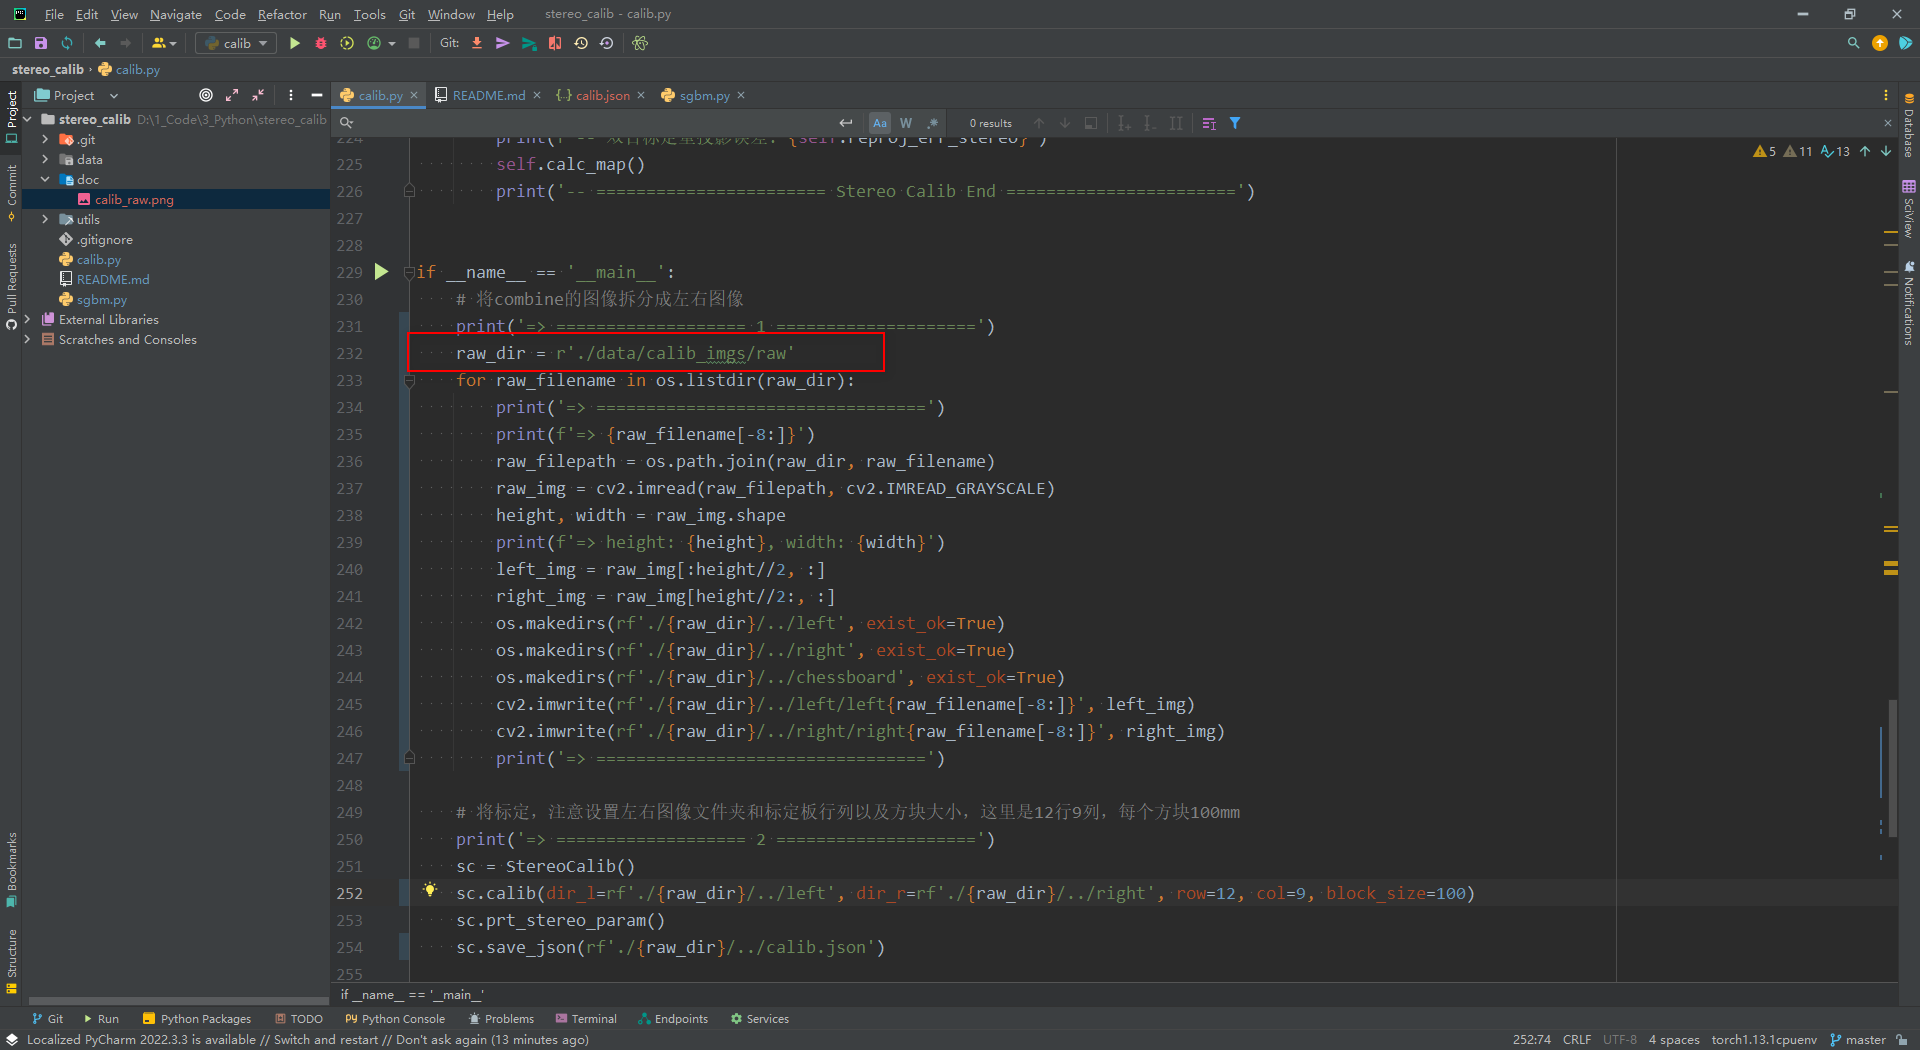
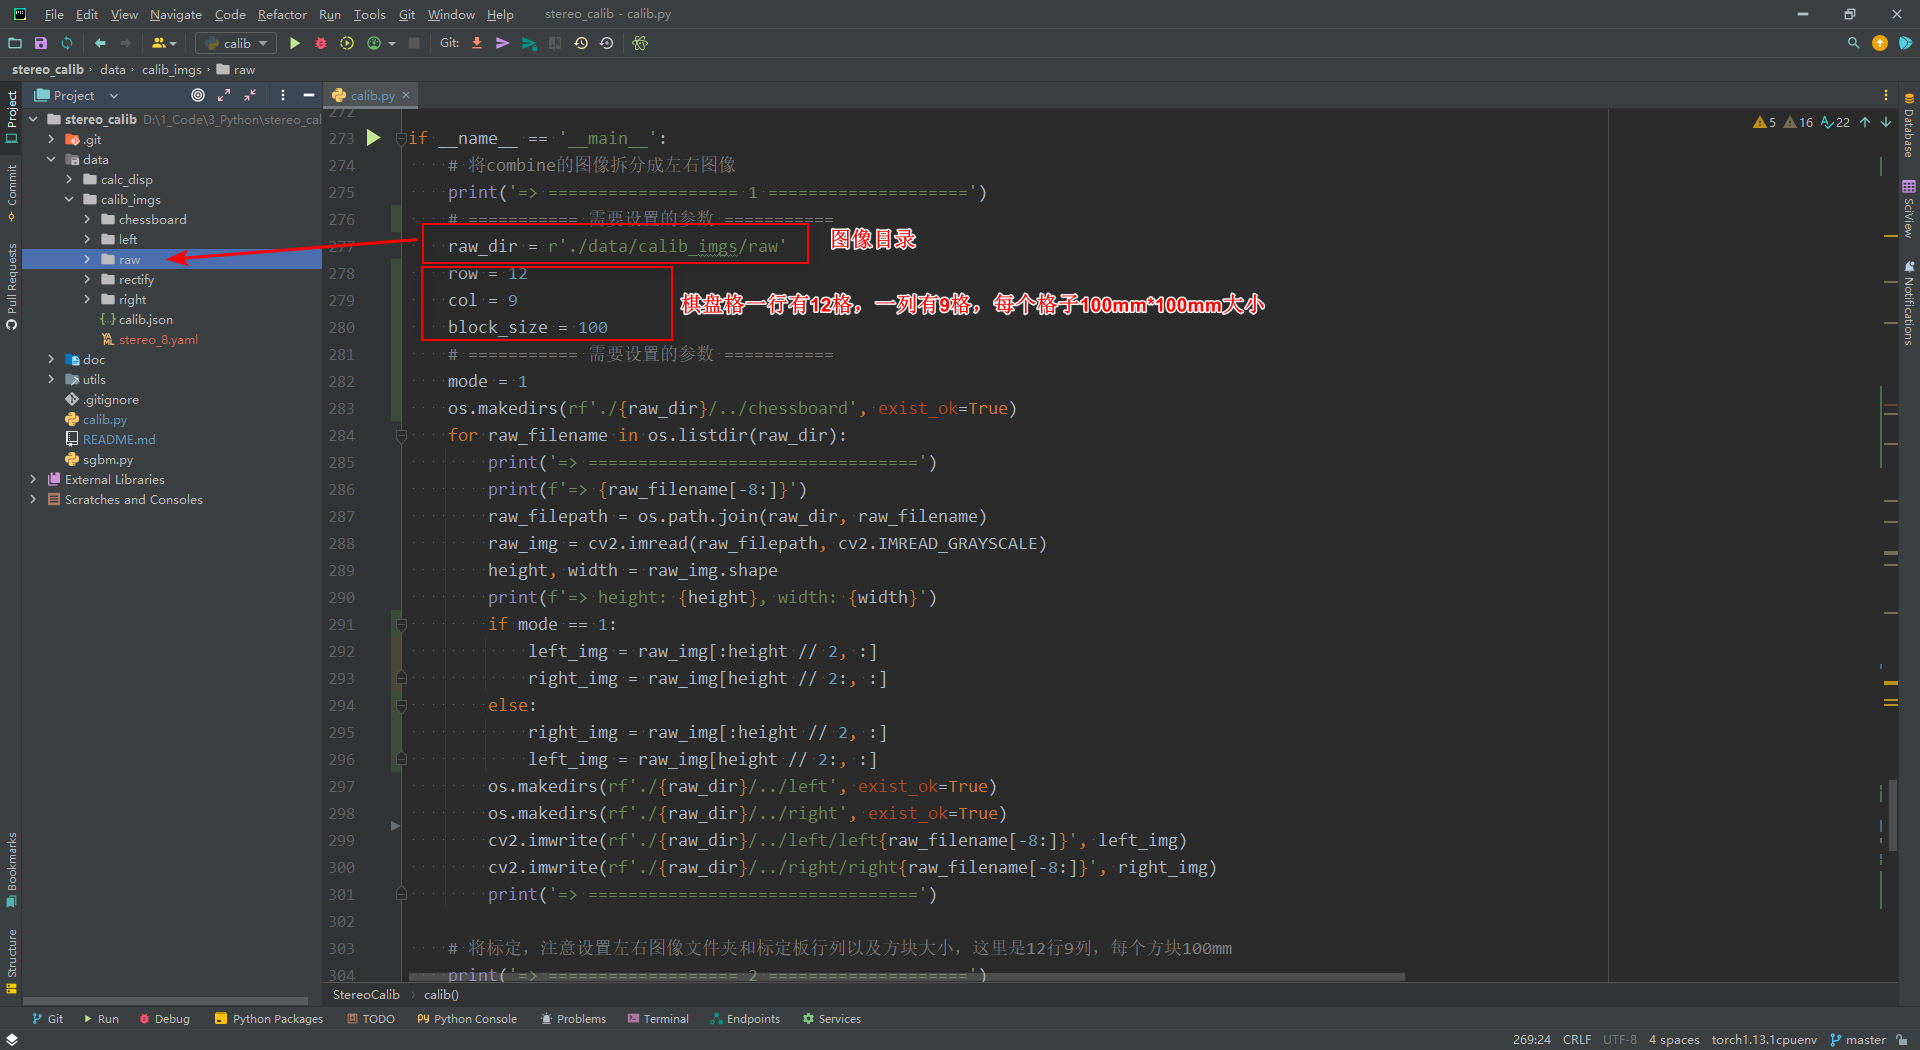
feat: save result as yaml

diff --git a/calib.py b/calib.py
@@ -8,6 +8,13 @@ import os
 import json
 import cv2
 import numpy as np
+import yaml
+
+
+# 自定义 Dumper 以确保列表保持单行输出
+class CustomDumper(yaml.SafeDumper):
+    def increase_indent(self, flow=False, indentless=False):
+        return super(CustomDumper, self).increase_indent(flow=flow, indentless=indentless)
 
 
 class StereoCalib:
@@ -95,6 +102,43 @@ class StereoCalib:
                 json.dump(self.res_calib, f, indent=4, ensure_ascii=False)
             print(f'Save Json: {os.path.abspath(path_save)}')
 
+    def save_yaml(self, path_save=None):
+        if path_save is None:
+            path_save = self.path_save
+
+        if path_save is None:
+            raise ValueError('保存路径未指定！')
+
+        txt_data = f"""%YAML:1.0
+stereo0:
+  cam0:
+    cam_overlaps: [1]
+    camera_model: pinhole
+    distortion_coeffs: [{self.distort_l[0, 0]}, {self.distort_l[0, 1]}, {self.distort_l[0, 2]}, {self.distort_l[0, 3]}, {self.distort_l[0, 4]}, {self.distort_l[0, 5]}, {self.distort_l[0, 6]}, {self.distort_l[0, 7]}]
+    distortion_model: radtan
+    intrinsics: [{self.intr_l[0, 0]}, {self.intr_l[1, 1]}, {self.intr_l[0, 2]}, {self.intr_l[1, 2]}]
+    resolution: [1280, 640]
+    rostopic: /cam0/image_raw
+  cam1:
+    T_cn_cnm1:
+      - [{self.R[0, 0]}, {self.R[0, 1]}, {self.R[0, 2]}, {self.t[0, 0]/1000}]
+      - [{self.R[1, 0]}, {self.R[1, 1]}, {self.R[1, 2]}, {self.t[1, 0]/1000}]
+      - [{self.R[2, 0]}, {self.R[2, 1]}, {self.R[2, 2]}, {self.t[2, 0]/1000}]
+      - [0.0, 0.0, 0.0, 1.0]
+    cam_overlaps: [0]
+    camera_model: pinhole
+    distortion_coeffs: [{self.distort_r[0, 0]}, {self.distort_r[0, 1]}, {self.distort_r[0, 2]}, {self.distort_r[0, 3]}, {self.distort_r[0, 4]}, {self.distort_r[0, 5]}, {self.distort_r[0, 6]}, {self.distort_r[0, 7]}]
+    distortion_model: radtan
+    intrinsics: [{self.intr_r[0, 0]}, {self.intr_r[1, 1]}, {self.intr_r[0, 2]}, {self.intr_r[1, 2]}]
+    resolution: [1280, 640]
+    rostopic: /cam1/image_raw
+"""
+
+        if path_save is not None:
+            with open(path_save, 'w', encoding='utf-8') as f:
+                f.write(txt_data)
+            print(f'Save yaml: {os.path.abspath(path_save)}')
+
     def prt_stereo_param(self):
         print(f'-- F B cx cy doffs: {self.Focal}, {self.B * 1}, {self.cx}, {self.cy}, {self.doffs}')
 
@@ -176,7 +220,7 @@ class StereoCalib:
                 cv2.drawChessboardCorners(img_l_c, (points_per_row, points_per_col), corners_l, ret_l)
                 cv2.drawChessboardCorners(img_r_c, (points_per_row, points_per_col), corners_r, ret_r)
                 img_corners_show = np.concatenate((img_l_c, img_r_c), axis=1)
-                cv2.imwrite(f'{dir_l}/../chessboard/chessboard_{i+1}.png', img_corners_show)
+                cv2.imwrite(f'{dir_l}/../chessboard/chessboard_{i + 1}.png', img_corners_show)
                 cv2.namedWindow('show corners', 0)
                 cv2.resizeWindow('show corners', 640 * 2, 400)
                 cv2.imshow('show corners', img_corners_show)
@@ -229,7 +273,14 @@ class StereoCalib:
 if __name__ == '__main__':
     # 将combine的图像拆分成左右图像
     print('=> =================== 1 ====================')
+    # =========== 需要设置的参数 ===========
     raw_dir = r'./data/calib_imgs/raw'
+    row = 12
+    col = 9
+    block_size = 100
+    # =========== 需要设置的参数 ===========
+    mode = 1
+    os.makedirs(rf'./{raw_dir}/../chessboard', exist_ok=True)
     for raw_filename in os.listdir(raw_dir):
         print('=> =================================')
         print(f'=> {raw_filename[-8:]}')
@@ -237,11 +288,14 @@ if __name__ == '__main__':
         raw_img = cv2.imread(raw_filepath, cv2.IMREAD_GRAYSCALE)
         height, width = raw_img.shape
         print(f'=> height: {height}, width: {width}')
-        left_img = raw_img[:height//2, :]
-        right_img = raw_img[height//2:, :]
+        if mode == 1:
+            left_img = raw_img[:height // 2, :]
+            right_img = raw_img[height // 2:, :]
+        else:
+            right_img = raw_img[:height // 2, :]
+            left_img = raw_img[height // 2:, :]
         os.makedirs(rf'./{raw_dir}/../left', exist_ok=True)
         os.makedirs(rf'./{raw_dir}/../right', exist_ok=True)
-        os.makedirs(rf'./{raw_dir}/../chessboard', exist_ok=True)
         cv2.imwrite(rf'./{raw_dir}/../left/left{raw_filename[-8:]}', left_img)
         cv2.imwrite(rf'./{raw_dir}/../right/right{raw_filename[-8:]}', right_img)
         print('=> =================================')
@@ -249,12 +303,31 @@ if __name__ == '__main__':
     # 将标定，注意设置左右图像文件夹和标定板行列以及方块大小，这里是12行9列，每个方块100mm
     print('=> =================== 2 ====================')
     sc = StereoCalib()
-    sc.calib(dir_l=rf'./{raw_dir}/../left', dir_r=rf'./{raw_dir}/../right', row=12, col=9, block_size=100)
+    sc.calib(dir_l=rf'./{raw_dir}/../left', dir_r=rf'./{raw_dir}/../right', row=row, col=col, block_size=block_size)
     sc.prt_stereo_param()
     sc.save_json(rf'./{raw_dir}/../calib.json')
+    sc.save_yaml(rf'./{raw_dir}/../stereo_8.yaml')
 
     # 极线矫正，注意读入的图像目录
     print('=> =================== 3 ====================')
+    # raw_dir = r'./data/calc_disp-0819/raw'
+    # for raw_filename in os.listdir(raw_dir):
+    #     print('=> =================================')
+    #     print(f'=> {raw_filename[-8:]}')
+    #     if 'depth' in raw_filename: continue
+    #     raw_filepath = os.path.join(raw_dir, raw_filename)
+    #     raw_img = cv2.imread(raw_filepath, cv2.IMREAD_GRAYSCALE)
+    #     height, width = raw_img.shape
+    #     print(f'=> height: {height}, width: {width}')
+    #     left_img = raw_img[:height//2, :]
+    #     right_img = raw_img[height//2:, :]
+    #     os.makedirs(rf'./{raw_dir}/../left', exist_ok=True)
+    #     os.makedirs(rf'./{raw_dir}/../right', exist_ok=True)
+    #     cv2.imwrite(rf'./{raw_dir}/../left/left{raw_filename[-8:]}', left_img)
+    #     cv2.imwrite(rf'./{raw_dir}/../right/right{raw_filename[-8:]}', right_img)
+    #     print('=> =================================')
+
+    print('=> =================== 4 ====================')
     left_img_filepaths = []
     right_img_filepaths = []
     for filepath, dirnames, filenames in os.walk(rf'./{raw_dir}/..'):

diff --git a/README.md b/README.md
@@ -6,26 +6,32 @@
 - [sgbm.py](sgbm.py)：sgmb算法实现
 - [data](data)：数据目录
 
-## 依赖包
+## 1、先安装依赖包
 
 ```shell
 pip install opencv-python
 pip install open3d
 ```
 
-## 代码运行流程
+## 2、再运行代码
 
 1. 需要采集20张以上的棋盘格图像，将采集的数据放在`./data/calib_imgs/raw`目录下，或者自定义目录也可以
 
 ![calib_raw.png](doc%2Fcalib_raw.png)
 
-2. 然后运行[calib.py](calib.py)进行标定，需要将`raw_dir`设置为棋盘格图像目录
+2. 然后运行[calib.py](calib.py)进行标定，需要将`raw_dir`设置为棋盘格图像目录，`row`、`col`、`block_size`按照棋盘格的尺寸进行设置
 
 ![calib_py.png](doc%2Fcalib_py.png)
+
+![chessboard.png](doc%2Fchessboard.png)
 
 3. 运行后将产生如下结果
 
 ![calib_result.png](doc%2Fcalib_result.png)
+
+## 3、最后测试地瓜双目功能包
+
+XXX
 
 ## 标定配置
 
